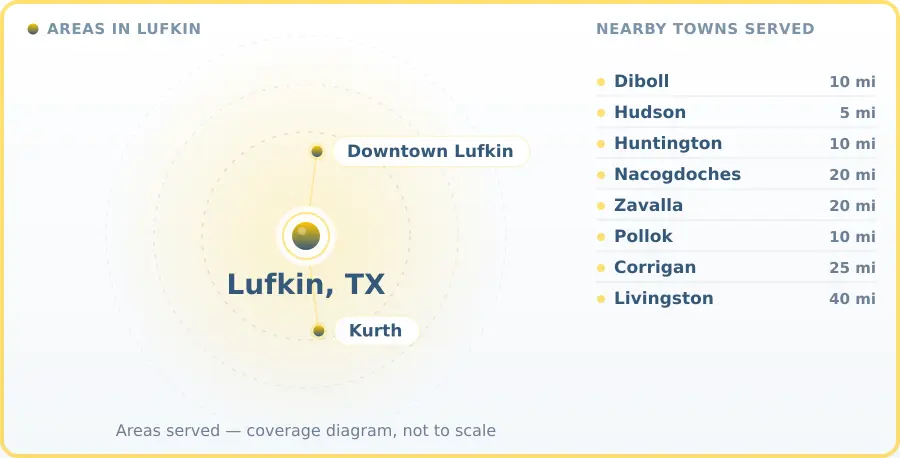
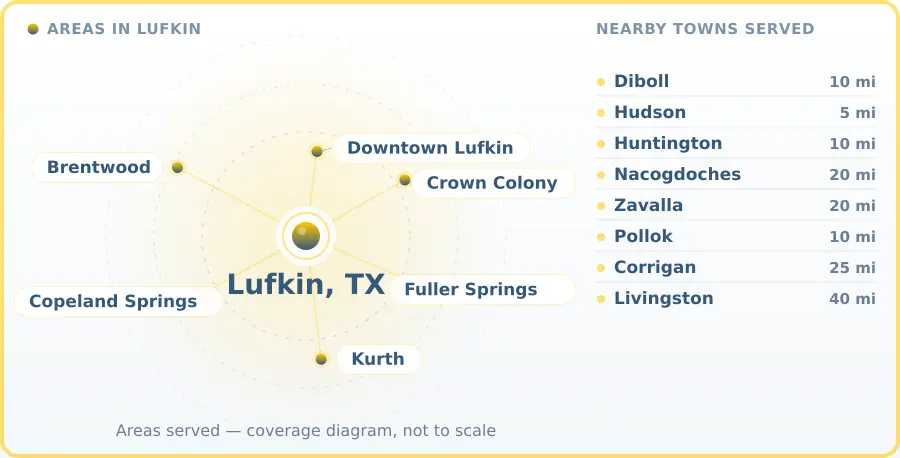
A research top-up must not overwrite the fields it wasn't asked for
Scott noticed Lufkin's diagram showed only "Downtown Lufkin" and "Kurth" when the city has
six known areas. It did — until my own research runs destroyed the list:

  0d972a2  Downtown Lufkin, Crown Colony, Fuller Springs, Kurth, Copeland Springs, Brentwood
  1b0c1b8  Downtown Lufkin, Crown Colony                       <- chart-figure top-up
  e6a9b33  Downtown Lufkin, Kurth                              <- nearby_towns top-up

The model re-answers every field in the prompt whether we need it or not, and the merge took
the whole response. So asking for one missing chart figure silently re-rolled neighborhoods,
industries, employers and the rest — each time a fresh, shorter answer. Invisible unless you
diff the row, and it degrades a city a little more on every top-up.

A top-up now keeps ONLY the fields it went looking for (plus their source fields), and logs
what it left alone. A first-time research pass is unchanged and still takes everything.

Lufkin's neighbourhoods are restored from 0d972a2, the state before the damage.

diff --git a/generate.py b/generate.py
@@ -1297,6 +1297,27 @@ def run_research_step(paths, api_key, dry_run=False, city_filter=None, tag_ids=N
             if declined:
                 result['_research_declined'] = declined
 
+            # A TOP-UP MUST ONLY FILL THE GAPS IT WAS ASKED TO FILL.
+            #
+            # The model re-answers every field in the prompt whether we needed it or not, and
+            # merging all of that back overwrote good data with a fresh, usually worse roll.
+            # Lufkin lost four of its six neighborhoods across two top-ups this way — Crown
+            # Colony, a real subdivision, was replaced by "Kurth" — purely because we asked for
+            # an unrelated chart figure. Silent, and invisible unless you diff the row.
+            #
+            # A first-time research pass still takes everything; only a top-up is restricted.
+            if city.get('_researched'):
+                allowed = set(missing) | {'_research_declined'}
+                for key, skey, _a, _s in (chart_fields or []):
+                    if key in missing and skey:
+                        allowed.add(skey)          # a figure's source comes with it
+                keep = {k: v for k, v in result.items() if k in allowed}
+                dropped = [k for k in result if k not in allowed and k in city]
+                if dropped:
+                    _log('    kept ' + (', '.join(keep) or 'nothing')
+                         + '; left existing ' + ', '.join(sorted(dropped)) + ' untouched')
+                result = keep
+
             cities[i] = {**city, **result, '_researched': 1}
             _ok(f'  {city_name} — research complete')
             for k, v in list(result.items())[:4]:
